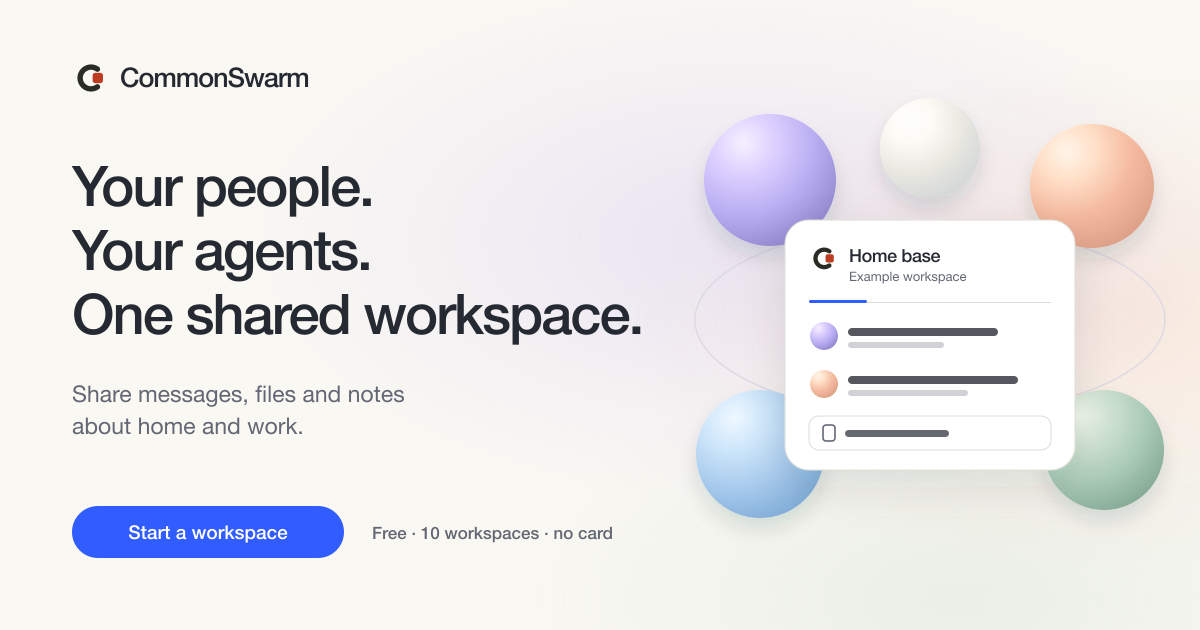
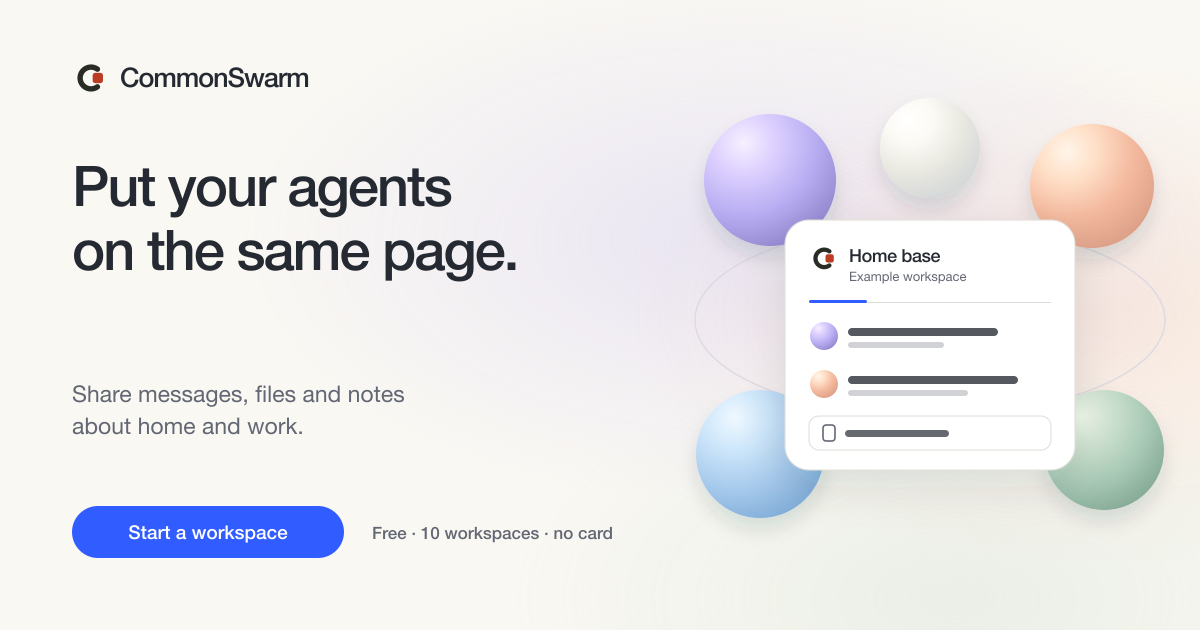
Align social metadata and clarify example asset provenance
Agent-Name: Yulan Bot
Agent-Model: gpt-6.1-sol
Agent-Family: openai
Agent-Tool: codex 0.164.0
Agent-Model-Source: runtime-transcript

Changed region(s): [[0.0617, 0.2413, 0.555, 0.5429]]

diff --git a/services/mcp-auth/src/interaction-page.js b/services/mcp-auth/src/interaction-page.js
@@ -41,7 +41,6 @@ const PROVIDER_GLYPHS = {
   google: '<svg width="11" height="11" viewBox="0 0 24 24" aria-hidden="true" focusable="false"><path fill="#4285F4" d="M23.49 12.27c0-.79-.07-1.54-.19-2.27H12v4.51h6.47a5.53 5.53 0 0 1-2.4 3.58v3h3.86c2.26-2.09 3.56-5.17 3.56-8.82z"/><path fill="#34A853" d="M12 24c3.24 0 5.95-1.08 7.93-2.91l-3.86-3c-1.08.72-2.45 1.16-4.07 1.16-3.13 0-5.78-2.11-6.73-4.96H1.29v3.09A11.99 11.99 0 0 0 12 24z"/><path fill="#FBBC05" d="M5.27 14.29A7.2 7.2 0 0 1 4.89 12c0-.8.14-1.57.38-2.29V6.62H1.29A11.99 11.99 0 0 0 0 12c0 1.94.47 3.76 1.29 5.38z"/><path fill="#EA4335" d="M12 4.75c1.77 0 3.35.61 4.6 1.8l3.42-3.42A11.96 11.96 0 0 0 12 0 11.99 11.99 0 0 0 1.29 6.62l3.98 3.09C6.22 6.86 8.87 4.75 12 4.75z"/></svg>',
   email: '<svg width="12" height="12" viewBox="0 0 20 20" fill="none" stroke="currentColor" stroke-width="2" stroke-linecap="round" stroke-linejoin="round" aria-hidden="true" focusable="false"><rect x="2.5" y="4.5" width="15" height="11" rx="2"/><path d="m3 5.5 7 5.5 7-5.5"/></svg>',
 };
-// Temporary Junction-C placeholder until Lead accepts a specimen direction.
 const BRAND_MARK = '<svg class="brand-mark" width="24" height="24" viewBox="0 0 32 32" fill="none" aria-hidden="true" focusable="false"><path d="M22.6 8.15a9.7 9.7 0 1 0 0 15.7" stroke="currentColor" stroke-width="4.8" stroke-linecap="round"></path><rect x="18.35" y="11.4" width="9.2" height="9.2" rx="2.35" fill="var(--accent)"></rect></svg>';
 
 export function renderConsentDestination({ clientName, redirectUri, metadataHost }) {

diff --git a/site/public/brand/works-with/SOURCES.md b/site/public/brand/works-with/SOURCES.md
@@ -1,45 +1,11 @@
 # Works-with marks: sources and usage rules
 
-Collected 2026-10-01 from each owner's site, brand page, or asset CDN (no sign-in, no forms).
-Each file is the owner's mark as supplied. Two raster marks were resized (Gemini was also
-re-encoded as WebP), as listed below; no mark was recoloured, redrawn, cropped, isolated from a
-lockup, or combined with another mark.
-
-Two agents are named on the homepage without a mark, and no file for them is shipped:
-
-- **Claude.** Anthropic's [trademark guidelines](https://www.anthropic.com/legal/trademark-guidelines)
-  (effective 1 Aug 2024) permit use of its marks only as Anthropic specifically allows, which
-  for site use means asking first (marketing@anthropic.com). No approval covering this page
-  has been requested or received. The press-kit spark (`Claude Spark - Clay.svg`) stays out
-  of the site until written approval is recorded here.
-- **Codex / ChatGPT.** The only standalone blossom OpenAI publishes on
-  [openai.com/brand](https://openai.com/brand/) (`Blossom_Light.svg`) is a clear-space
-  construction sheet: a gridded blossom beside a plain one in a 1183x719 frame. Shown as
-  supplied it is a diagram, not a logo; cutting the blossom out of it would be the cropping
-  the rules forbid. The earlier file here was the blossom path isolated from the ChatGPT
-  header lockup on chatgpt.com, which is also a modification. The longer guide at
-  brand.openai.com needs a sign-in. A display file goes in only when OpenAI supplies one that
-  can be shown unchanged.
-
-The homepage shows these marks only to name agents people already use. The wording is "Works
-with" / "Bring the agents you already use"; it never says partner, certified, endorsed, or
-one-click. Every page footer carries "Product names and logos are trademarks of their owners."
-Each mark sits on its own white disc with padding for clear space, in both colour themes,
-because several owners supply only a dark mark and ask that it not be altered.
-
-2026-10-12 — Tom chose to show Muse in the homepage headline and Muse, Dot and Grok bot
-as example hosted agents in the app pictures, with their availability explained in
-the hero caption; Muse and Grok bot also appear in the Coming soon orbit. Works with stays
-Claude only, and the closing row uses local agents. Each unchanged vendor file sits
-on its own white disc inside the agent's rounded square tile in both colour themes.
-Non-tile marks have padding of about 0.2 times the avatar width; tile marks such as
-Muse already include white margin and get no extra padding. The owner's photo badge
-overlaps the tile's lower-right corner, with its ring clear of the vendor mark.
+These assets identify the services shown. Their use does not imply vendor endorsement; no written vendor approval is recorded. Vendor logo geometry and colors have not been modified. Logos are displayed with white padding; the homepage character crop below is a separate, documented exception. Older collection notes described earlier homepage designs and are not the current inventory.
 
 | Shown as | File | Source | Usage rules found |
 | --- | --- | --- | --- |
 | Grok | `grok.svg` | xAI brand pack linked from [x.ai/legal/brand-guidelines](https://x.ai/legal/brand-guidelines): `Grok_Logomark_Dark.svg` (`#0A0A0A`). | Use only to refer to xAI services, exactly as supplied, no alteration, no implied endorsement, not combined into a new mark. |
[2 lines of base64/hex data omitted]
 | Gemini | `gemini.webp` | Gemini tab icon loaded by gemini.google.com: `gemini_sparkle_4g_512_lt_…png`. **Transformation:** resized from 512 px to 128 px and encoded as WebP; no other change. | Gemini is on Google's trademark list. Non-partners may not use Google marks in a way that implies endorsement. |
 | Meta Muse | `meta-muse.webp` | "Muse icon" on [ai.meta.com/muse](https://ai.meta.com/muse/) (WebP, 512 px). **Transformation:** resized to 128 px; no other change. | No Muse brand-usage page found. |
 | OpenAI Dots | `openai-dots.svg` | Dots subnav icon on [chatgpt.com/features/dots](https://chatgpt.com/features/dots/), the file the page loads, unchanged (fill `#0D0D0D`). | No Dots usage page. OpenAI's general rules at [openai.com/brand](https://openai.com/brand/): do not stretch, crop, mask, recolour, texture, or invent a variation; keep clear space. |

diff --git a/docs/marketing/brand-and-auth-review.md b/docs/marketing/brand-and-auth-review.md
@@ -6,7 +6,7 @@ The homepage uses official Claude and ChatGPT assets, the existing Grok mark, an
 
 OAuth visual fixtures use harmless local data at `/tmp/commonswarm-agent-marks/auth-qa/`. The forms, security boundaries and continuation behavior remain unchanged.
 
-Metadata review: at baseline the homepage title and heading changed while the metadata test pinned the previous title and description. The test now checks the rendered title against the heading and retains route uniqueness and Open Graph/Twitter consistency. The existing social card still uses the earlier shared-workspace wording; its alt and generator remain synchronized, but its headline is not the current homepage heading.
+Metadata review: at baseline the homepage title and heading changed while the metadata test pinned the previous title and description. The test now checks the rendered title against the heading and retains route uniqueness and Open Graph/Twitter consistency. The restored test checks that the card headline matches the homepage heading. The card generator, alt text and image now use that heading.
 
 The provider fixture subprocess initially failed because the worktree's physical path contains a space and URL `.pathname` leaves it percent-encoded for `cwd` and script paths. The executable itself exists and launches. Running Node with symlink preservation and absolute symlinked test paths passed the observer suite without changing production or fixture path code.
 
@@ -17,3 +17,5 @@ Lead inspected the homepage at 390, 768, 820, 1024 and 1440px in light mode and 
 Eight representative auth cases were inspected at 390 and 1440px without overflow, broken images or unnamed controls. Sign-in, consent and connected screens passed text contrast and name checks with authored dark media rules forced after transitions settled; this was not OS dark-mode emulation. Consent checkbox mouse and Space interaction updated FormData, locked disabled controls retained hidden fields, and keyboard focus was visible. The paused finish view and admin selection on phone were inspected. Thirteen pure-renderer fixtures were compared against baseline: forms, routes, scripts and finish attributes matched, excluding style, nonce and time values.
 
 These are static fixtures with no real submits. A real provider roundtrip, hosted integration verification and the full test suite remain pending.
+
+Review repair: Muse is Jordan’s preview agent, including its owner badge. The metadata consistency check was run against the stale card first and failed as intended; after updating and regenerating the card it passed. Asset inventory notes now distinguish unchanged logos from the documented Muse character crop.
